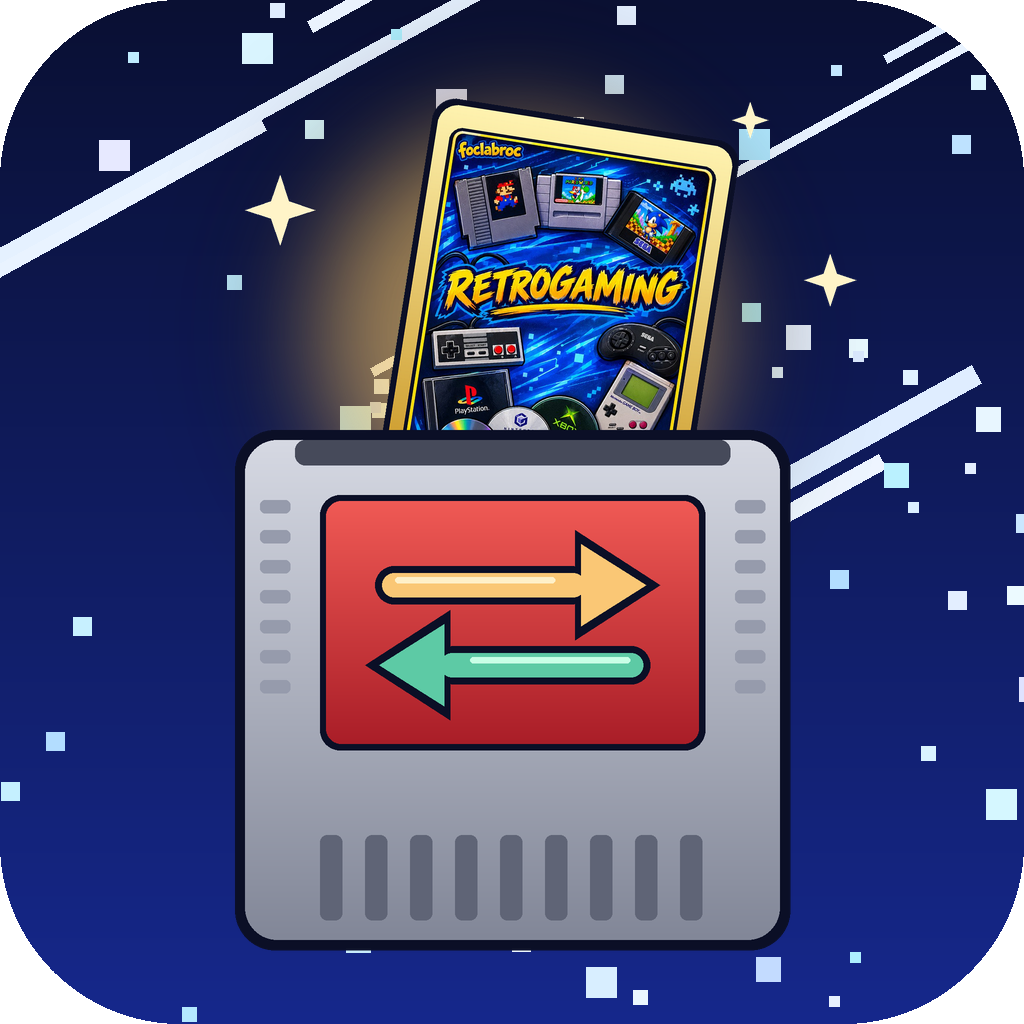
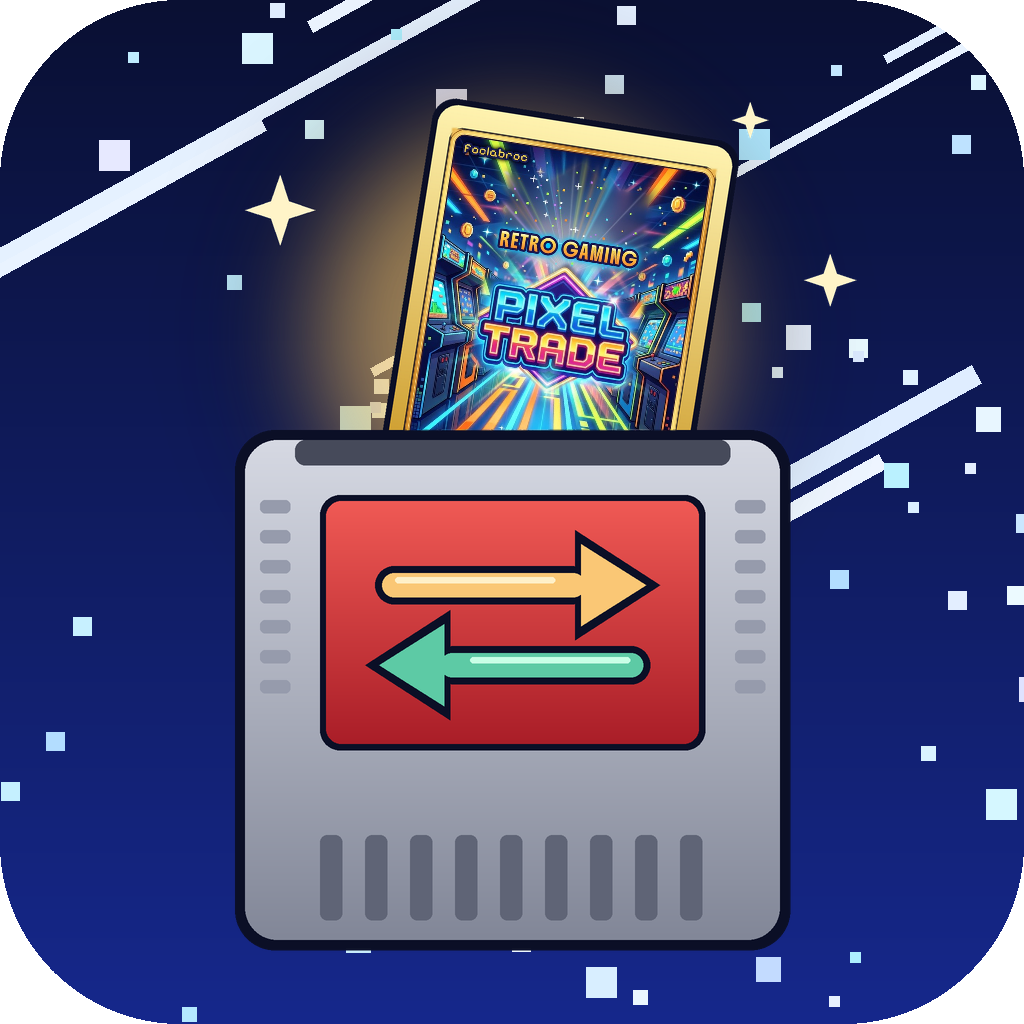
Nouveau dos des cartes (salle d'arcade Pixel Trade) et icônes assorties
Claude-Session: https://claude.ai/code/session_0182LpvND9n6J5vGybvia4S1

Changed region(s): [[0.375, 0.125, 0.7188, 0.4375]]

diff --git a/lib/cards.dart b/lib/cards.dart
@@ -509,7 +509,7 @@ class CardBack extends StatelessWidget {
                 ? null
                 : [BoxShadow(color: aura!.withOpacity(0.25 + 0.5 * glow), blurRadius: w * (0.06 + 0.12 * glow), spreadRadius: w * 0.01)],
           ),
-          // Dos des cartes : illustration « Retrogaming » (assets/card_back.jpg)
+          // Dos des cartes : salle d'arcade « Pixel Trade » (assets/card_back.jpg)
           foregroundDecoration: aura == null
               ? null
               : BoxDecoration(borderRadius: r, border: Border.all(color: aura!.withOpacity(0.6 + 0.4 * glow), width: w * 0.03)),

diff --git a/CHANGELOG.md b/CHANGELOG.md
@@ -1,5 +1,8 @@
 # Pixel Trade — Changelog
 
+## v1.0.5
+- **Nouveau dos des cartes** : une salle d'arcade aux couleurs de Pixel Trade, et l'icône de l'appli assortie.
+
 ## v1.0.4
 - **Gamedle** (onglet Bonus) : le jeu du jour, le même pour tout le monde. 6 essais : la jaquette pixelisée
   se précise à chaque essai, et chaque proposition indique si la console, l'année (⬆ ⬇) et le genre
